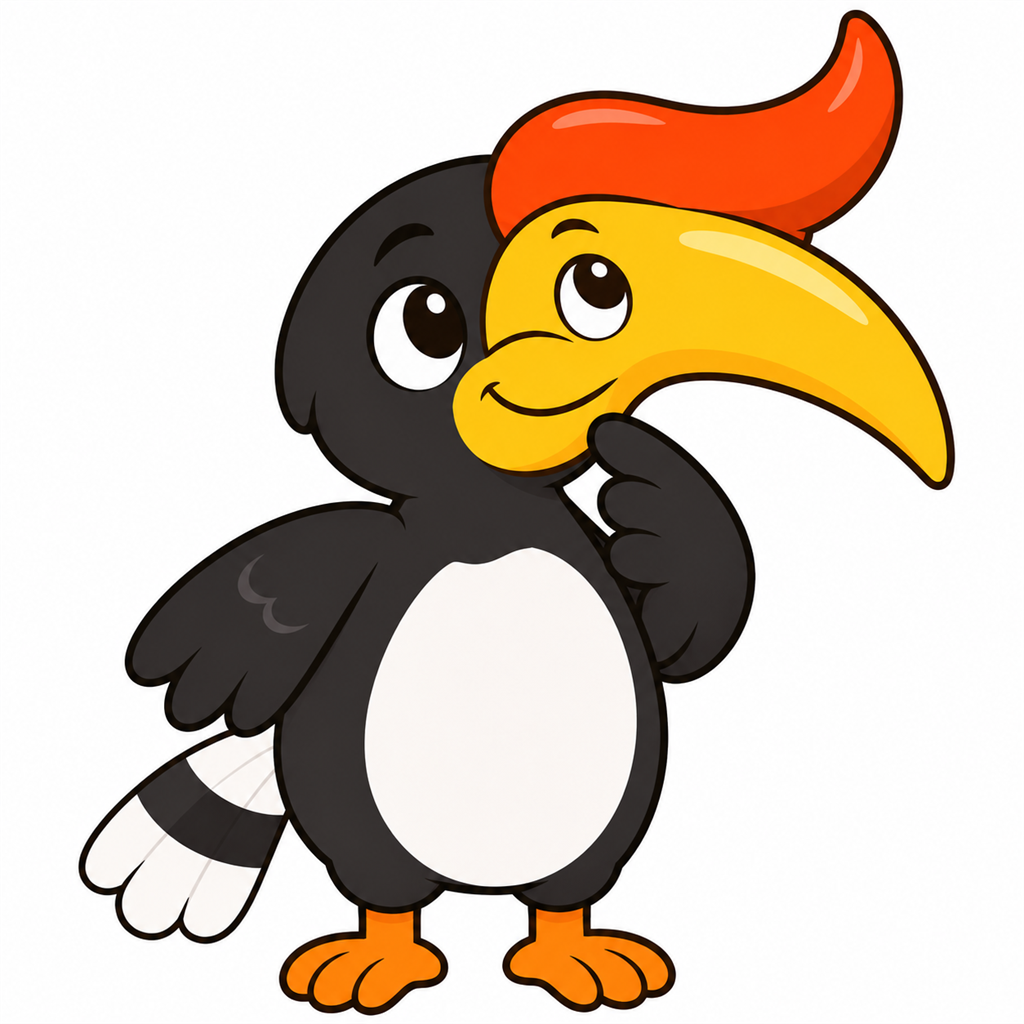
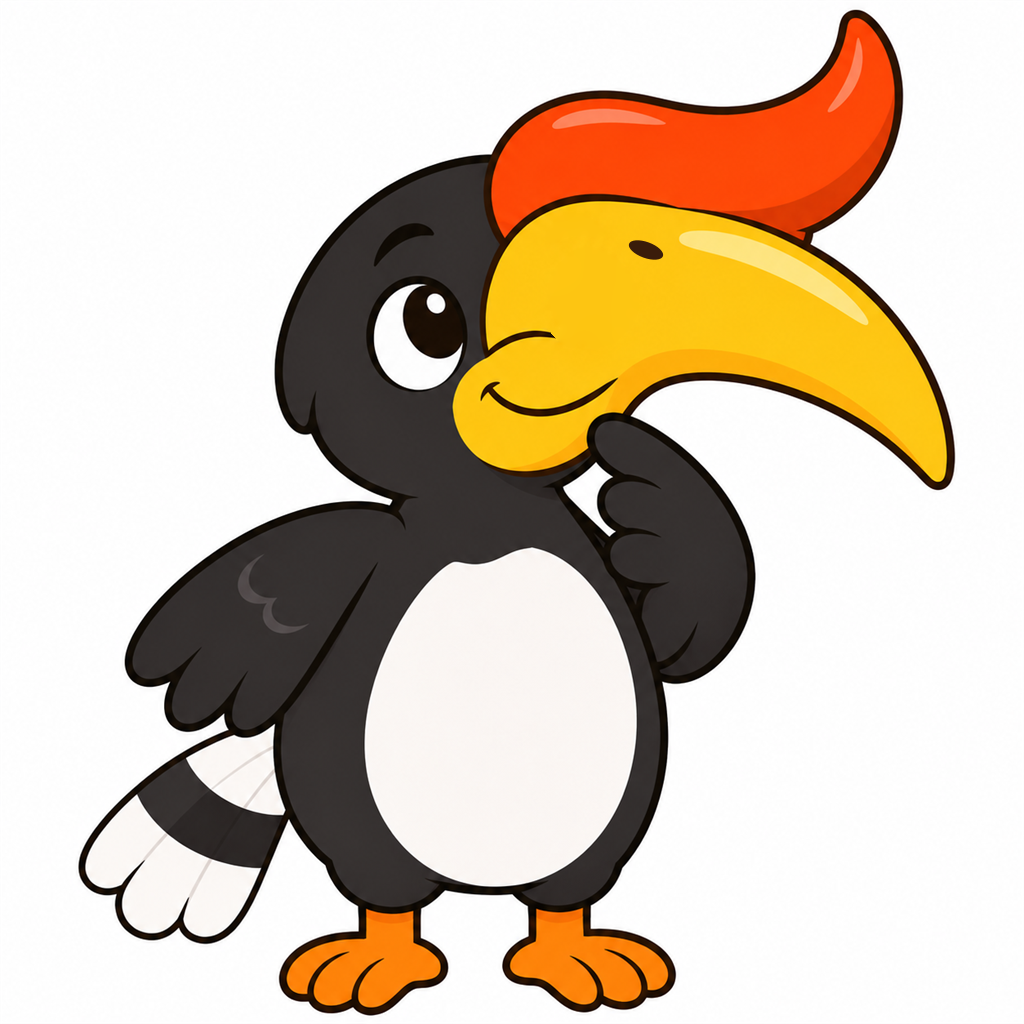
Mascot: remove the extra eye on the beak, add a nostril
All 8 hornbill poses had a second eye and eyebrow on the yellow beak.
Painted out, then a small nostril slit added. Originals kept in
assets-src/mascot/originals-before-eye-fix/, eye-only fix in eye-fixed/.
The pose prompt now asks for one eye on the head and the nostril.

Changed region(s): [[0.5312, 0.2188, 0.6562, 0.3438]]

diff --git a/docs/handoffs/task-g2-mascot.md b/docs/handoffs/task-g2-mascot.md
@@ -41,3 +41,12 @@ All 3 findings were valid and are fixed. Codex found no screen-reader, import or
 | 3 | P3: white gaps enclosed by the outline (between the raised wings and the head in `cheer`, beside the beak in `think`) stayed opaque | Per-pose `"clear"` points in `mascot-prompts.json`; `scripts/mascot-to-webp.py` fills from them too and **self-checks** (every named gap transparent, the bird > 30 % opaque) because the web tests cannot decode WebP. Checked visually on blue: gaps gone, eyes/belly/tail intact. (In `wave` I found no enclosed gap; the measured white regions there are the eyes.) |
 
 Re-run: prettier, eslint, typecheck, **197 web + 37 Worker unit tests**, validate-content (0 errors), build, **e2e 20/20**. (The tree also contains the G-3 Home map work, checked by the same run; it has its own handoff.)
+
+## Fix: extra eye on the beak (18 Nov 2026, Yang's report)
+All 8 Codex poses had a second eye (and eyebrow) painted on the yellow beak, beside the correct eye on the black head. Removed in every pose by painting the area with the beak's own yellow (smooth fill from the surrounding beak colour; the beak crease line and the smile are kept). Regenerated `apps/web/src/assets/mascot/*.webp` with `py -I scripts/mascot-to-webp.py`.
+- Fixed masters: `assets-src/mascot/<pose>.png`. Originals kept in `assets-src/mascot/originals-before-eye-fix/`.
+- `mascot-prompts.json` style now says one eye, on the black head only, never a mark on the beak or casque, so poses generated later do not repeat it.
+- Checked by eye on every pose (full face and zoomed), then lint, typecheck, unit tests and build.
+
+### Nostril (18 Nov 2026, Yang's request)
+Added one small dark oval nostril slit on the upper beak near its base, in all 8 poses (drawn on the eye-fixed masters, same spot relative to the head in each pose, tilted 20 degrees to follow the beak). Layers kept in `assets-src/mascot/`: `originals-before-eye-fix/` (Codex originals) -> `eye-fixed/` (extra eye removed) -> `<pose>.png` (with nostril, what the WebPs are built from). `mascot-prompts.json` now describes the nostril so new poses include it.
